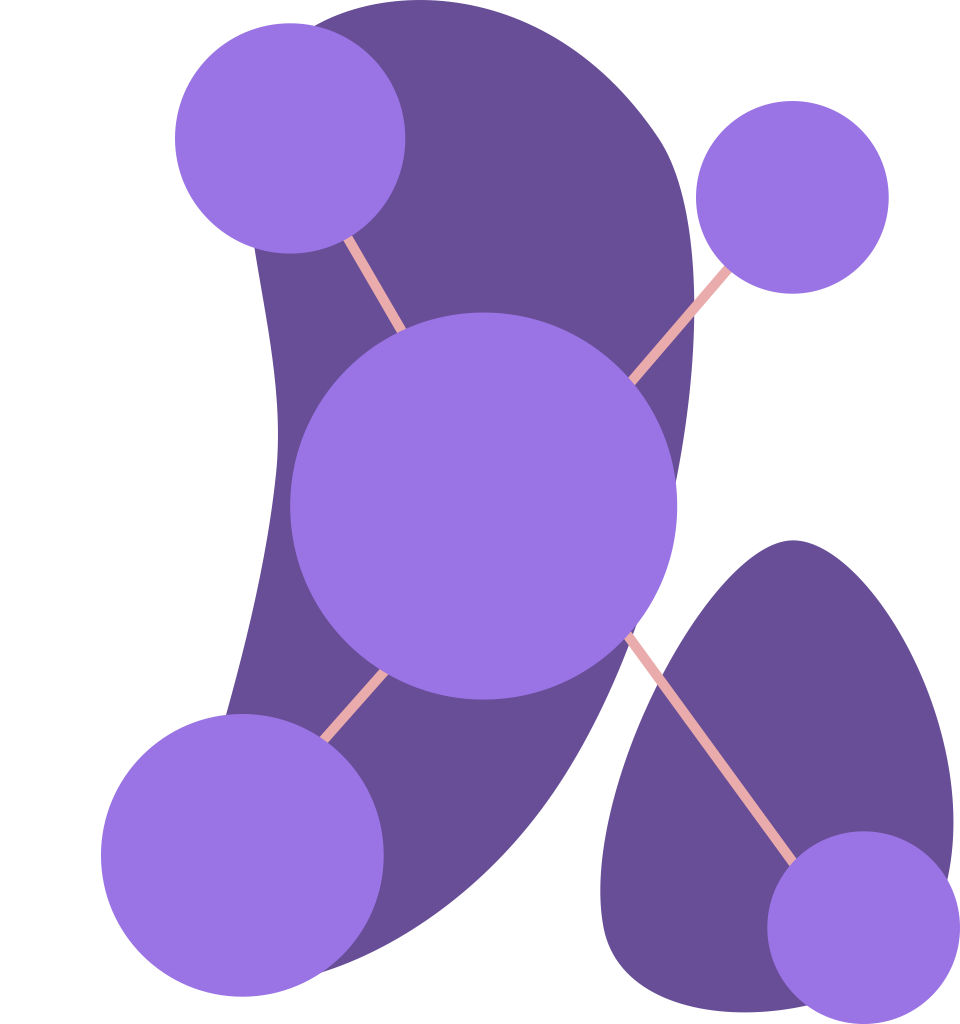
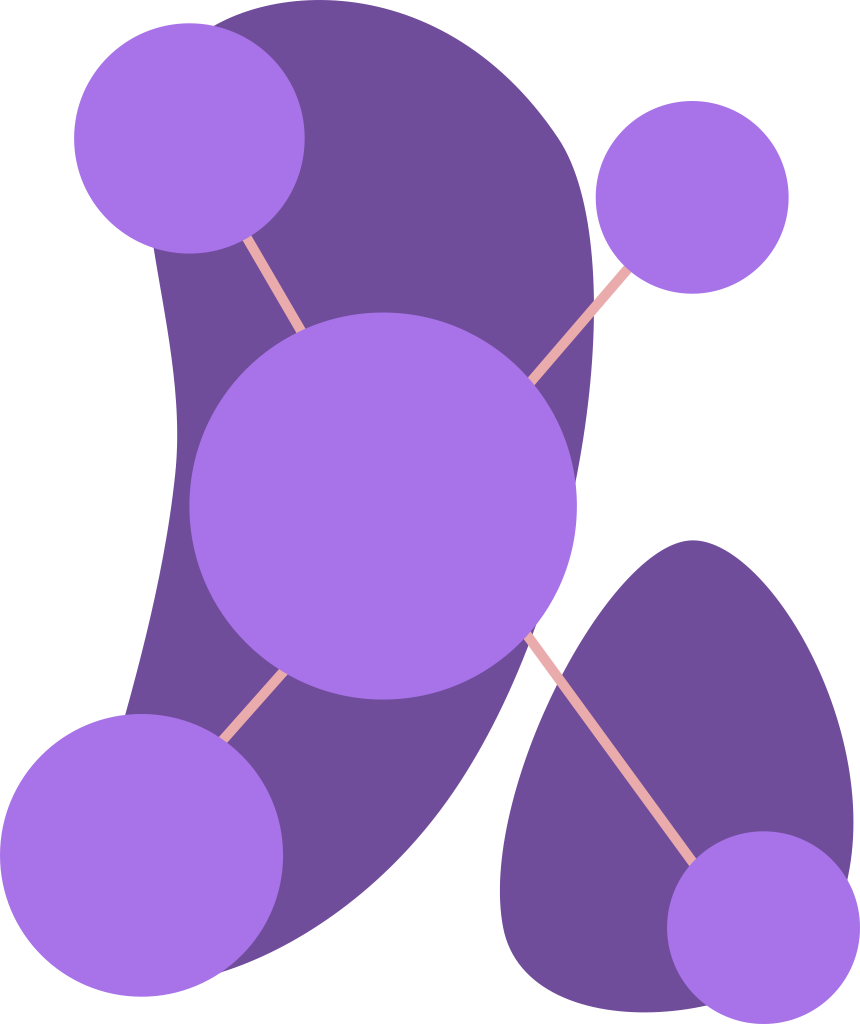
Added compatibility for the about image's dark mode

diff --git a/index.html b/index.html
@@ -62,7 +62,7 @@
 
     </div> -->
 
-    <section id="about" style="" class="about section">
+    <section id="about"class="about section">
       <div class="container">
         <div class="about-info">
           <h1 class="heading">About Me</h1>
@@ -76,7 +76,8 @@
 
           </div>
         </div>
-        <img src="./Imgs/AboutArt2_3.png" style="height: 500px;" alt="" srcset="">
+        <img src="./Imgs/AboutArt2_3.png" class="about-img about-imgL" alt="">
+        <img src="./Imgs/AboutArt2_3Dark.png" class="about-img about-imgD" alt="">
       </div>
     </section>
 

diff --git a/script.js b/script.js
@@ -4,7 +4,7 @@ const header = document.querySelector("header");
 //---------- Sticky Navbar ----------//
 
 function stickyNavbar() {
-  header.classList.toggle("scrolled", window.pageYOffset > 0);
+  header.classList.toggle("scrolled", window.scrollY > 0);
 }
 
 window.addEventListener('scroll', stickyNavbar);

diff --git a/styles.css b/styles.css
@@ -474,6 +474,13 @@ header.scrolled .name {
 	max-height: 28rem; 
 }
 
+.about-img {
+	height: 500px;
+}
+
+html.dark .about-imgL, .about-imgD {display: none;}
+html.dark .about-imgD, .about-imgL {display: block;}
+
 /*---------- Education Skills ----------*/
 
 .education {
